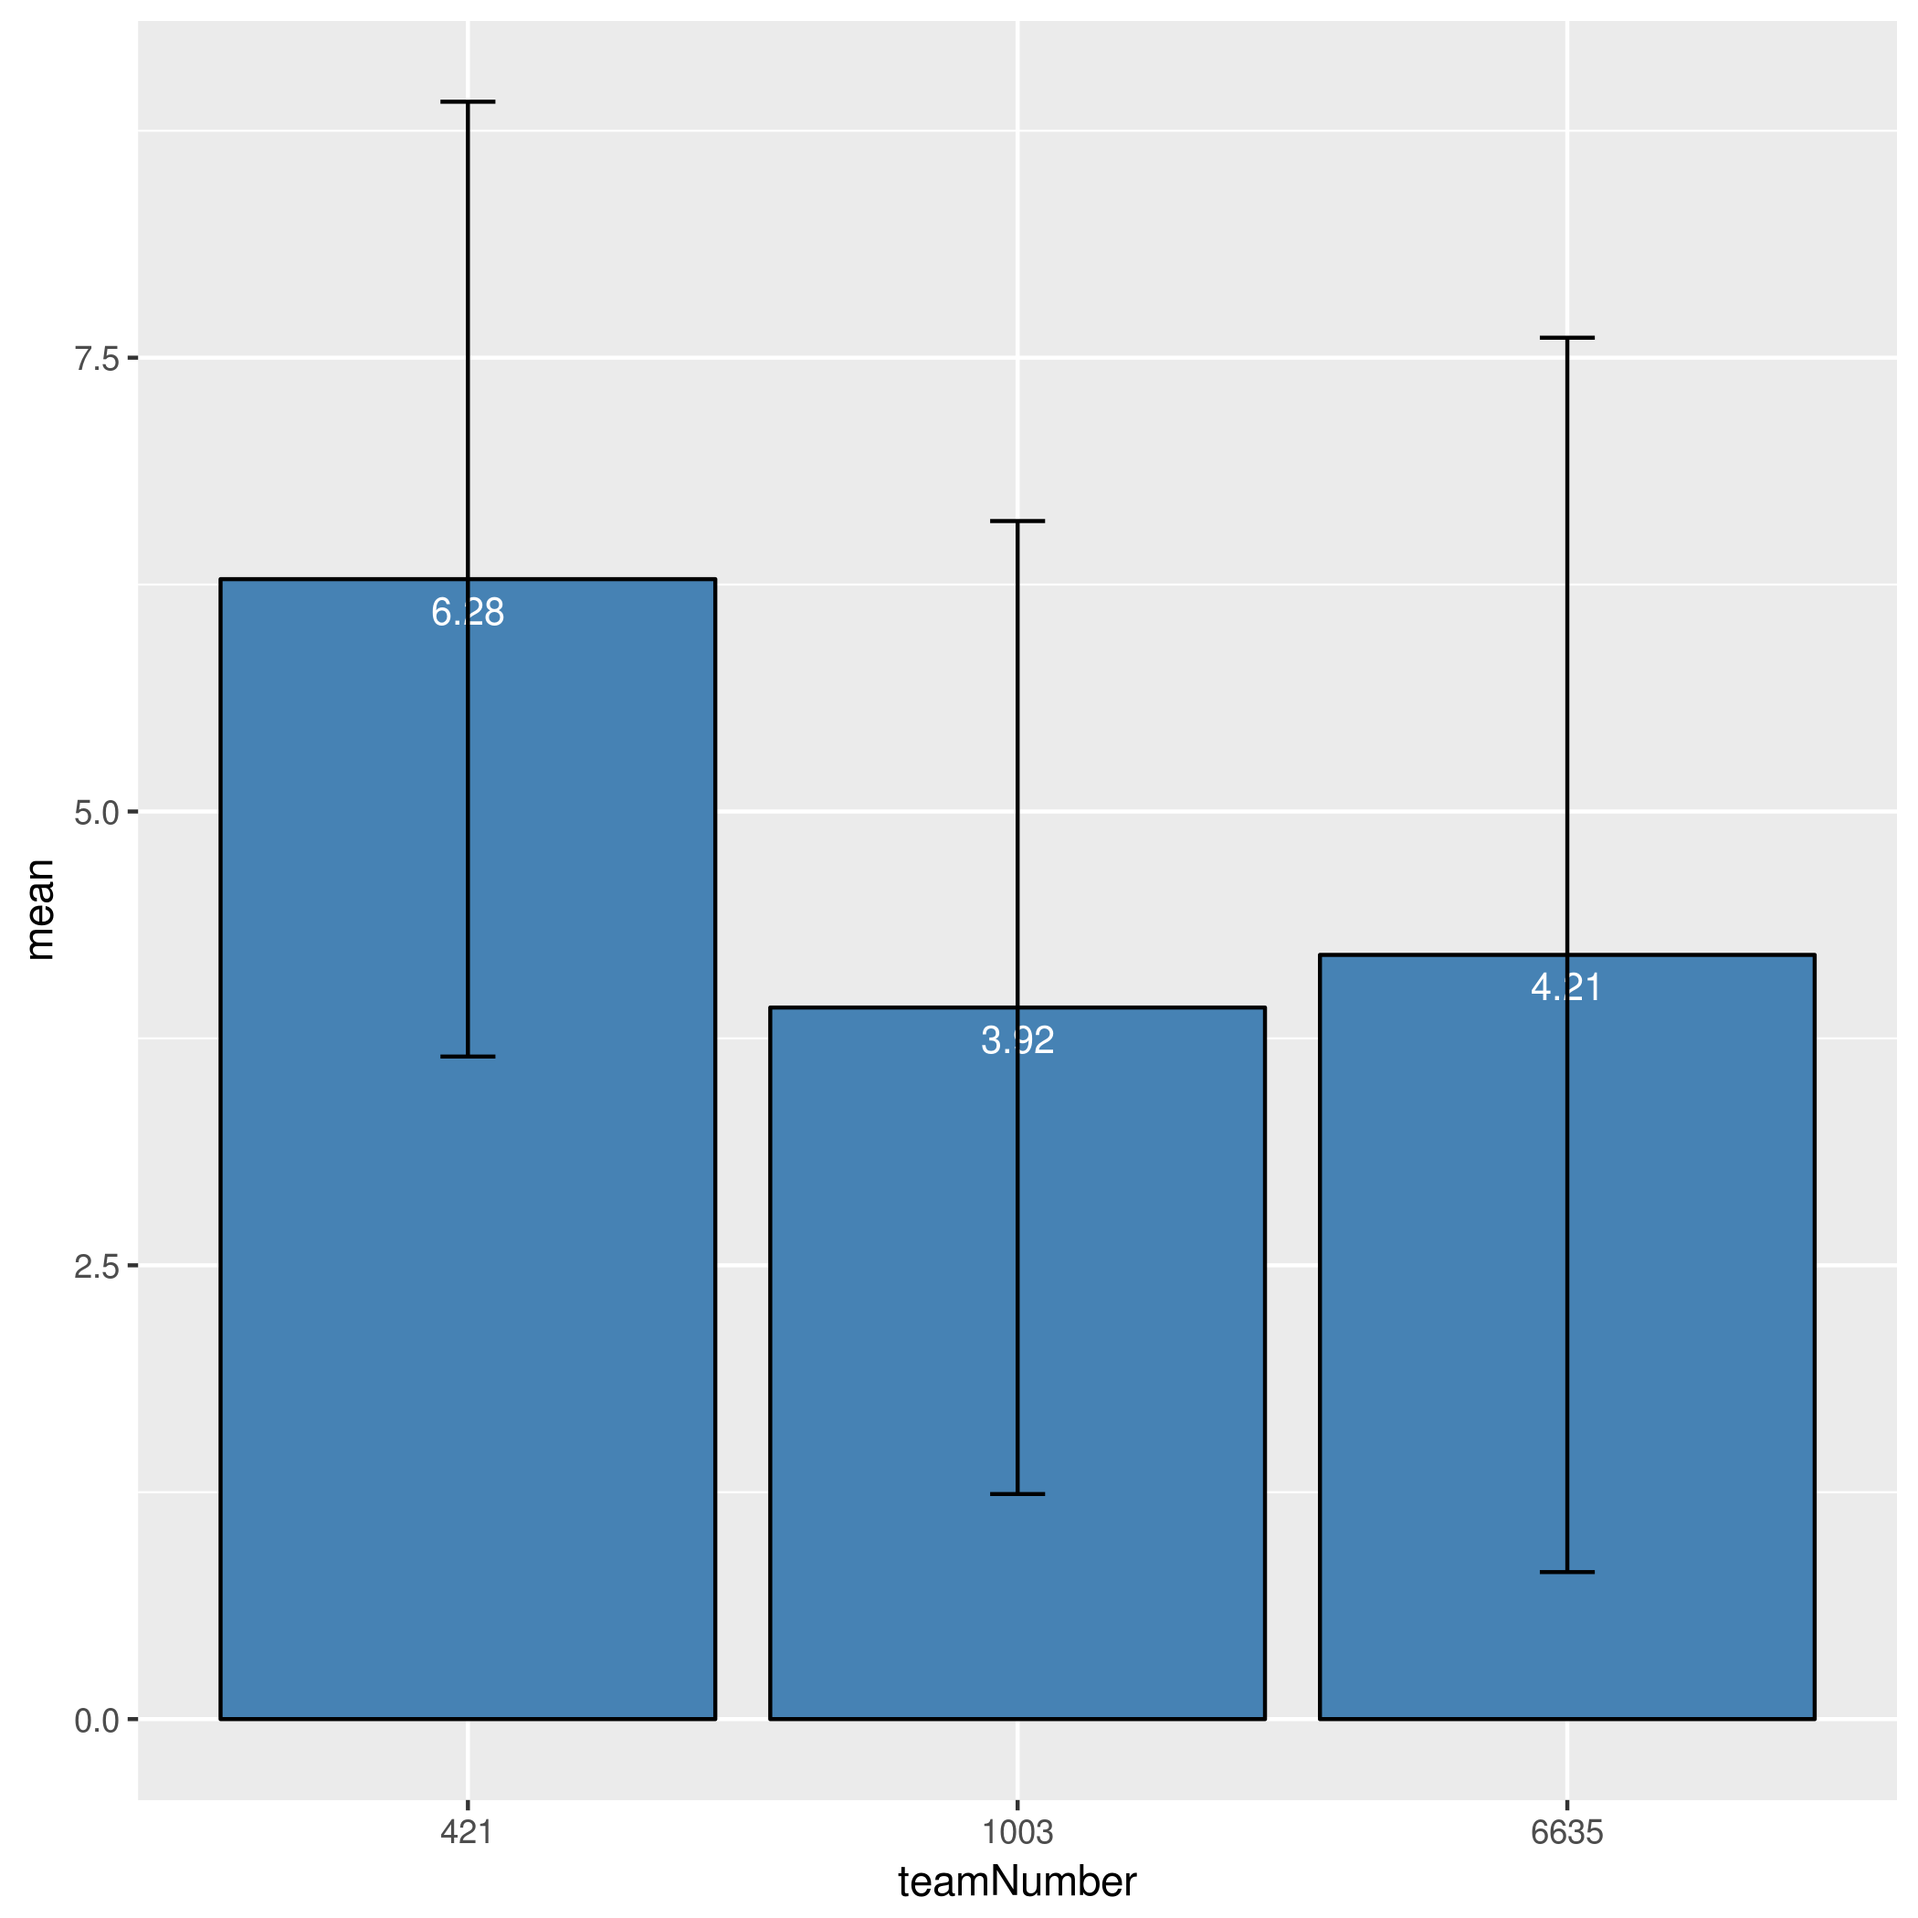
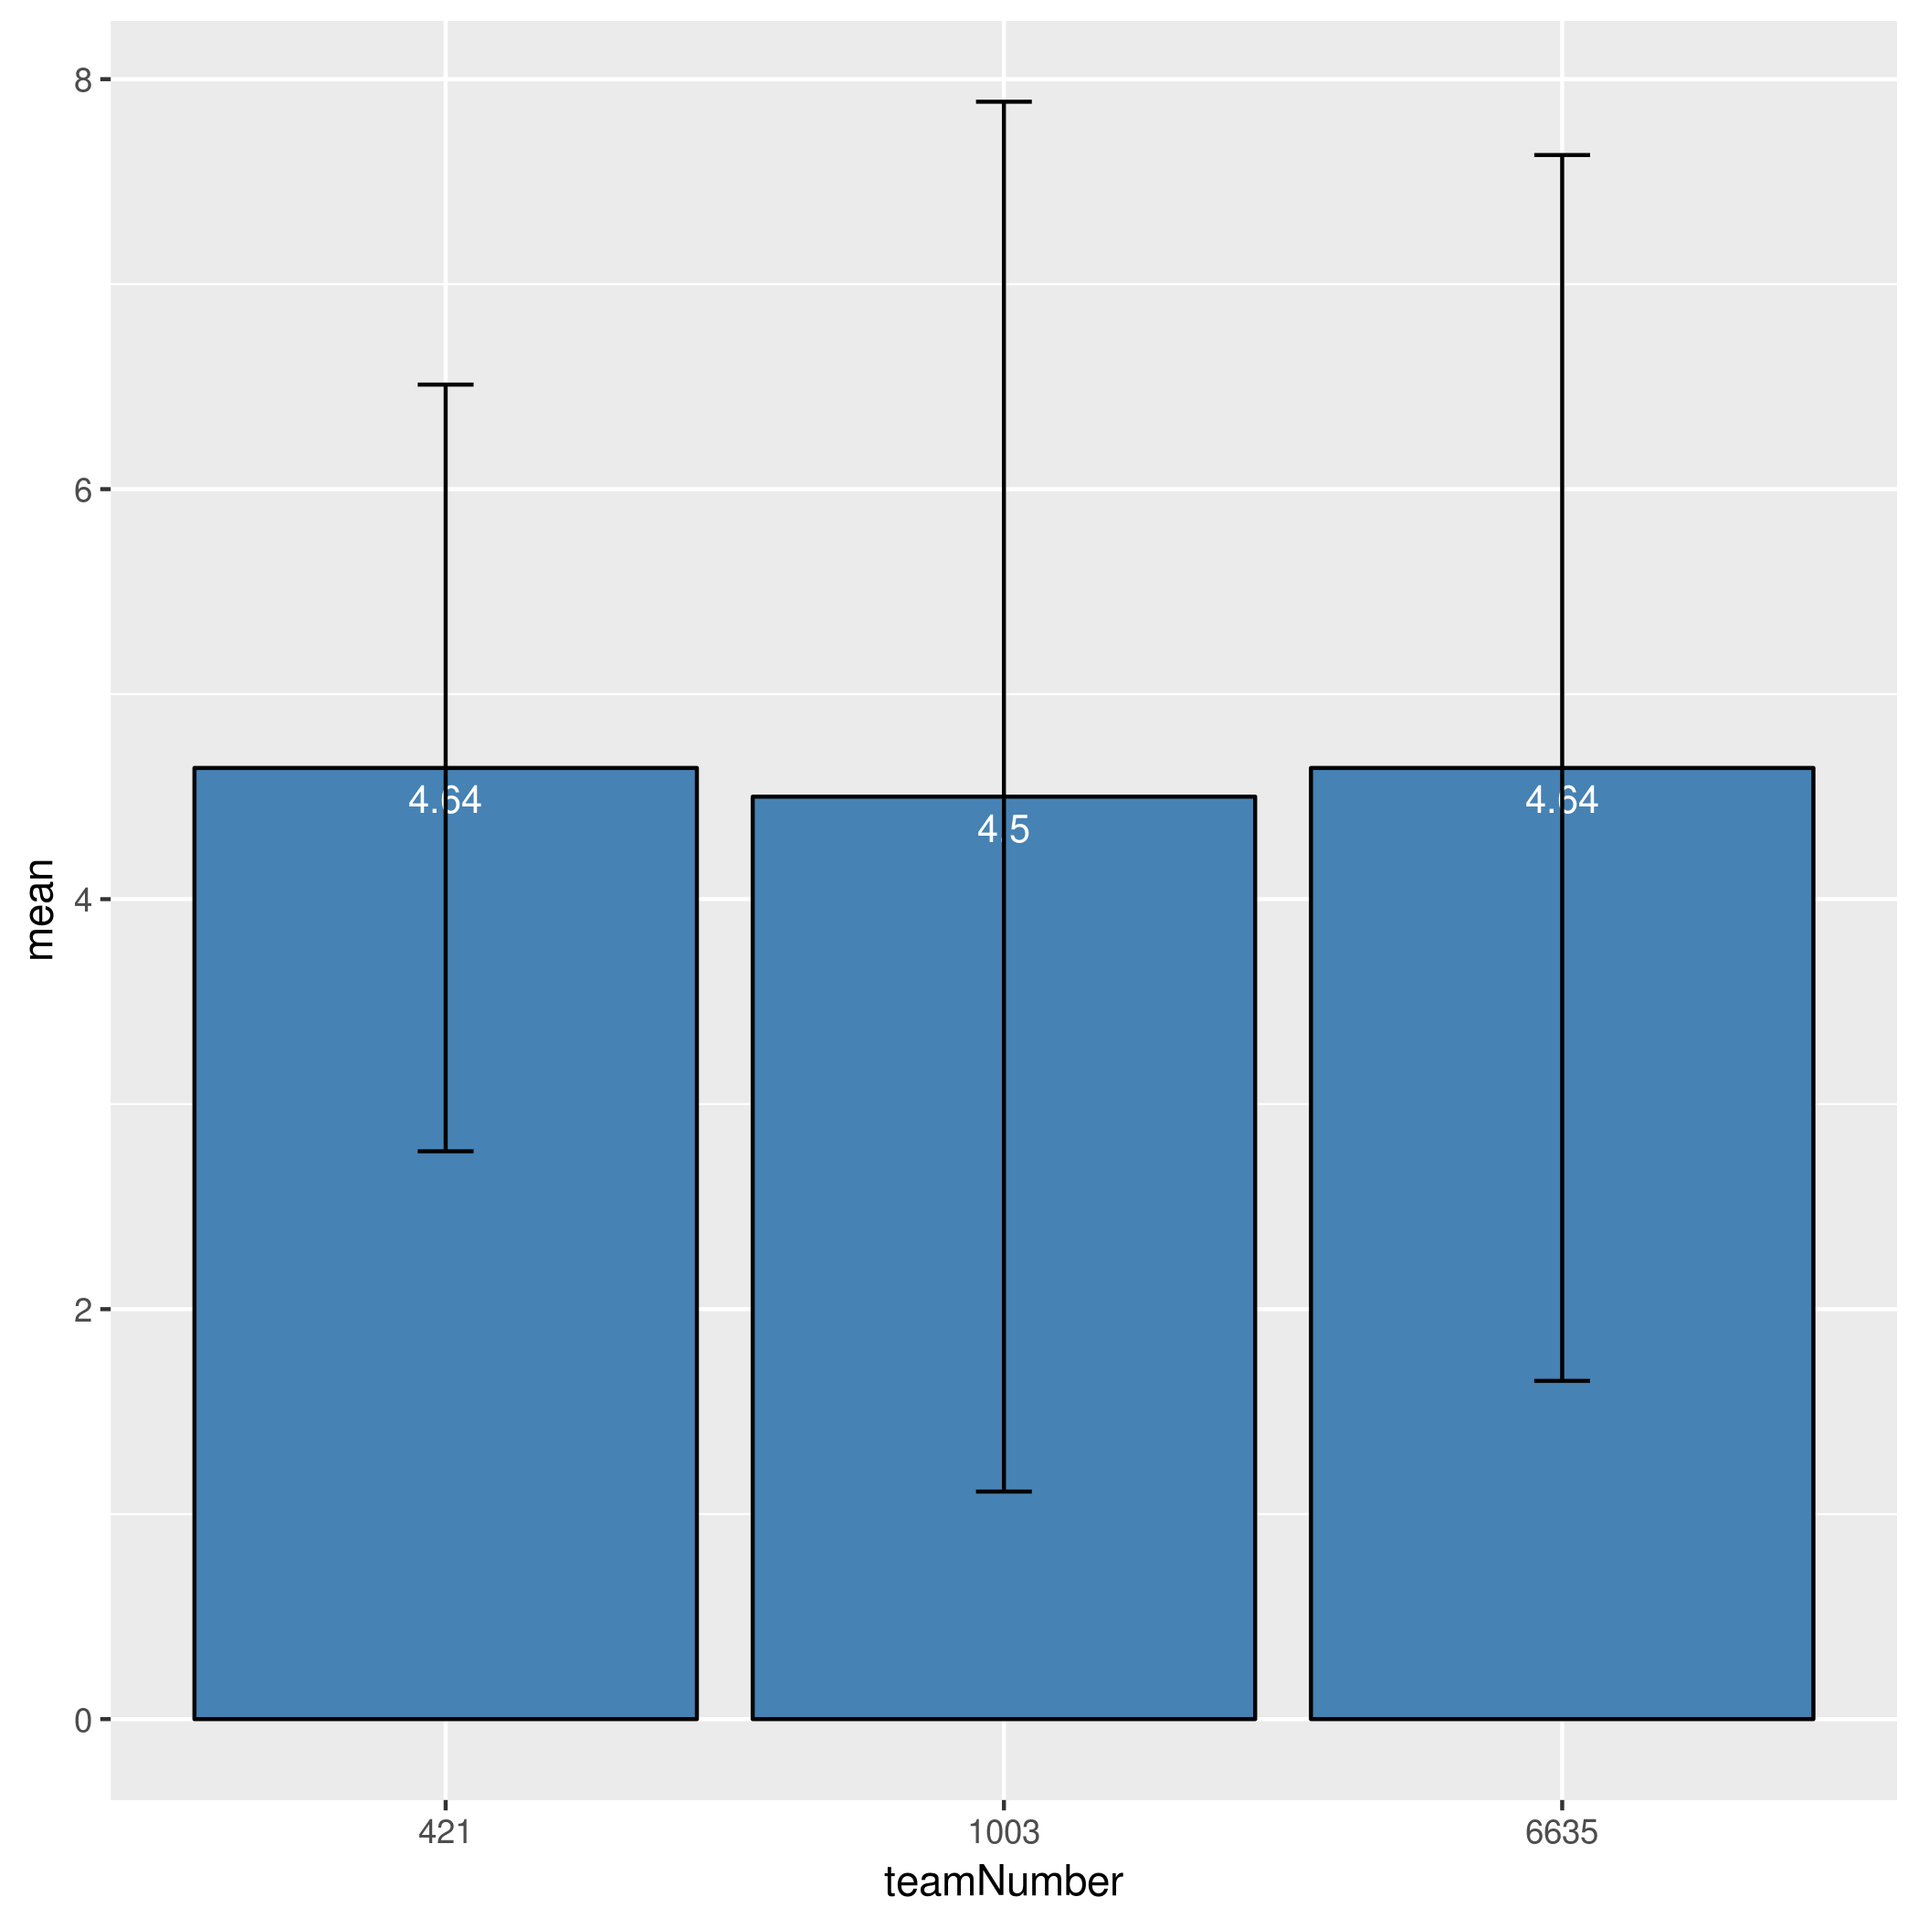
working on data display, graphs compelted for switch, scale and exchange

diff --git a/display/datatable.py b/display/datatable.py
@@ -88,7 +88,7 @@ class DataViewLayout(StackLayout):
         appendButton("switch", labelSize, fairBlue, self.graphSwitch) # 4
         appendButton("scale", labelSize, fairBlue, self.graphScale) # 5
         appendButton("exchange", labelSize, fairBlue, self.graphExchange, text_size="13sp") # 6
-        appendLabel("climb", labelSize, fairBlue) # 7
+        appendButton("climb", labelSize, fairBlue, self.graphClimb) # 7
 
         # nonmeta auton
         appendLabel("start\npos", labelSize, tameRed) # 9
@@ -256,8 +256,6 @@ class DataViewLayout(StackLayout):
             print("no command")
             selectedRobots = self.robots
 
-        print(selectedRobots)
-
         self.queuedRobots = []
         self.queuedRobots = sorted(selectedRobots, key=key)
 
@@ -269,7 +267,6 @@ class DataViewLayout(StackLayout):
 
     def graphSwitch(self, _):
         teamValues = {}
-        print(self.queuedRobots)
         for robot in self.queuedRobots:
             if not robot.teamNumber in teamValues:
                 teamValues[robot.teamNumber] = [robot.switch]
@@ -296,7 +293,6 @@ class DataViewLayout(StackLayout):
         self.addAll()
     def graphScale(self, _):
         teamValues = {}
-        print(self.queuedRobots)
         for robot in self.queuedRobots:
             if not robot.teamNumber in teamValues:
                 teamValues[robot.teamNumber] = [robot.scale]
@@ -322,29 +318,57 @@ class DataViewLayout(StackLayout):
         self.appendPicture("%s/r/graphs/scale.png" % currentDir, (1, .95))
         self.addAll()
     def graphExchange(self, _):
-         teamValues = {}
-         print(self.queuedRobots)
-         for robot in self.queuedRobots:
-             if not robot.teamNumber in teamValues:
-                 teamValues[robot.teamNumber] = [robot.exchange]
-             else:
-                 teamValues[robot.teamNumber].append(robot.exchange)
+        teamValues = {}
+        for robot in self.queuedRobots:
+            if not robot.teamNumber in teamValues:
+                teamValues[robot.teamNumber] = [robot.exchange]
+            else:
+                teamValues[robot.teamNumber].append(robot.exchange)
+        print(teamValues)
+        currentDir = os.path.dirname(os.path.realpath(__file__))
+        database = sqlite3.connect("%s/r/graphdata.db" % currentDir)
+        database.execute("DELETE FROM exchange")
+        for team in teamValues:
+            teamNumber = team
+            mean = truncate(np.mean(teamValues[team]), 2)
+            standev = truncate(np.std(teamValues[team]), 2)
+            database.execute("INSERT INTO exchange VALUES (?, ?, ?)", (team, mean, standev))
+        database.commit()
+        database.close()
 
-         print(teamValues)
-         currentDir = os.path.dirname(os.path.realpath(__file__))
-         database = sqlite3.connect("%s/r/graphdata.db" % currentDir)
-         database.execute("DELETE FROM exchange")
-         for team in teamValues:
-             teamNumber = team
-             mean = truncate(np.mean(teamValues[team]), 2)
-             standev = truncate(np.std(teamValues[team]), 2)
-             database.execute("INSERT INTO exchange VALUES (?, ?, ?)", (team, mean, standev))
-         database.commit()
-         database.close()
+        os.system("Rscript %s/r/exchange.r" % currentDir) # will create a png in /r/graphs/switch.png
 
-         os.system("Rscript %s/r/exchange.r" % currentDir) # will create a png in /r/graphs/switch.png
+        self.displist = []
+        self.appendButton("Back", (1, .05), lambda _: self.processQuery("")) # clears the queued robots and goes back to display
+        self.appendPicture("%s/r/graphs/exchange.png" % currentDir, (1, .95))
+        self.addAll()
 
-         self.displist = []
-         self.appendButton("Back", (1, .05), lambda _: self.processQuery("")) # clears the queued robots and goes back to display
-         self.appendPicture("%s/r/graphs/exchange.png" % currentDir, (1, .95))
-         self.addAll()
+    def graphClimb(self, _):
+        teamValues = {}
+        for robot in self.queuedRobots:
+            if not robot.teamNumber in teamValues:
+                teamValues[robot.teamNumber] = {
+                    "climbed": 0,
+                    "didn't climb": 0,
+                    "assisted": 0,
+                    "assisted +1": 0,
+                    "assisted +2": 0,
+                }
+            teamValues[robot.teamNumber][robot.climb] += 1
+        print(teamValues)
+        currentDir = os.path.dirname(os.path.realpath(__file__))
+        database = sqlite3.connect("%s/r/graphdata.db" % currentDir)
+        database.execute("DELETE FROM climb")
+        for team in teamValues:
+            database.execute("INSERT INTO climb VALUES (?, ?, ?)", (team, None, None))
+            for climbType in team:
+                database.execute("UPDATE climb SET climbType=?, count=?", (climbType, team[climbType]))
+        database.commit()
+        database.close()
+
+        os.system("Rscript %s/r/climb.r" % currentDir) # will create a png in /r/graphs/switch.png
+
+        self.displist = []
+        self.appendButton("Back", (1, .05), lambda _: self.processQuery("")) # clears the queued robots and goes back to display
+        self.appendPicture("%s/r/graphs/climb.png" % currentDir, (1, .95))
+        self.addAll()

diff --git a/teleopscreen.py b/teleopscreen.py
@@ -81,19 +81,19 @@ class TeleopLayout(StackLayout):
         # --- climbLayout --- #
         # "assisted" button for climb options
         climb1Color = darkMagenta if self.switcher.robot.climb == "assisted" else lightMagenta # darkening the currently selected climb option
-        appendButton("Robot\nwas\nassisted", (.5, .40), climb1Color, lambda x: self.changeClimb("assisted"), climbLayout)
+        appendButton("Robot was assisted by another robot", (.5, .40), climb1Color, lambda x: self.changeClimb("assisted"), climbLayout)
         # "did not climb" button for climb options
         climb2Color = darkMagenta if self.switcher.robot.climb == "didn't climb" else lightMagenta # darkening the currently selected climb option
-        appendButton("Robot\ndidn't\n climb", (.5, .40), climb2Color, lambda x: self.changeClimb("didn't climb"), climbLayout)
+        appendButton("Robot didn't climb", (.5, .40), climb2Color, lambda x: self.changeClimb("didn't climb"), climbLayout)
         # "climbed" button for climb options
         climb3Color = darkMagenta if self.switcher.robot.climb == "climbed" or self.switcher.robot.climb == "assisted +1" or self.switcher.robot.climb == "assisted +2" else lightMagenta # darkening the currently selected climb option
-        appendButton("Robot Climbed\nSuccessfully", (1, .20), climb3Color, lambda x: self.changeClimb("climbed"), climbLayout)
+        appendButton("Robot climbed successfully", (1, .20), climb3Color, lambda x: self.changeClimb("climbed"), climbLayout)
         # "climbed +1" button for climb options
         climb4Color = darkMagenta if self.switcher.robot.climb == "assisted +1" else lightMagenta # darkening the currently selected climb option
-        appendButton("assisted\n1", (.5, .40), climb4Color, lambda x: self.changeClimb("assisted +1"), climbLayout)
+        appendButton("Assisted 1 other robot", (.5, .40), climb4Color, lambda x: self.changeClimb("assisted +1"), climbLayout)
         # "climbed +2" button for climb options
         climb5color = darkMagenta if self.switcher.robot.climb == "assisted +2" else lightMagenta
-        appendButton("assisted\n2", (.5, .40), climb5color, lambda x: self.changeClimb("assisted +2"), climbLayout)
+        appendButton("Assisted 2 other robots", (.5, .40), climb5color, lambda x: self.changeClimb("assisted +2"), climbLayout)
 
         # --- scaleLayout --- #
         # displays cubes in scale

diff --git a/display/robotclass.py b/display/robotclass.py
@@ -11,7 +11,7 @@ class Robot(object):
         self.switch = switch # integer, how many cubes scored in switch
         self.scale = scale # integer, how many cubes scored in scale
         self.exchange = exchange #integer, how many cubes scored in exchange
-        self.climb = climb # string - "did not climb", "tried but failed", "levitated", "climbed"
+        self.climb = climb # string - "climbed", "didn't climb", "assisted", "assisted +1", "assisted +2"
         self.notes = notes # string, notable things on robot
         # auton #
         self.startingPosition = "left" #string - "left", "middle", "right"

diff --git a/datamaker.py b/datamaker.py
@@ -17,7 +17,7 @@ for team in [421, 6635, 1003]:
             random.randint(0, 9),
             random.randint(0, 12),
             random.randint(0, 9),
-            random.choice(["climbed +1", "climbed +2", "climbed", "did not climb", "attempted to climb"]),
+            random.choice(["climbed", "didn't climb", "assisted", "assisted +1", "assisted +2"]),
             "datamaker",
             random.choice(["left", "middle", "right"]),
             random.choice(["left", "right"]),
